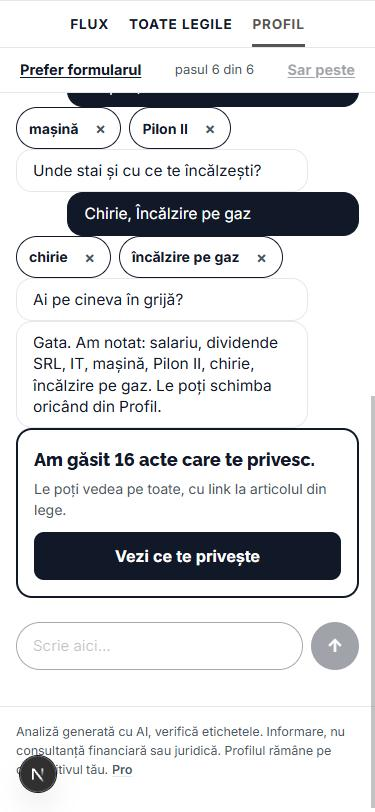
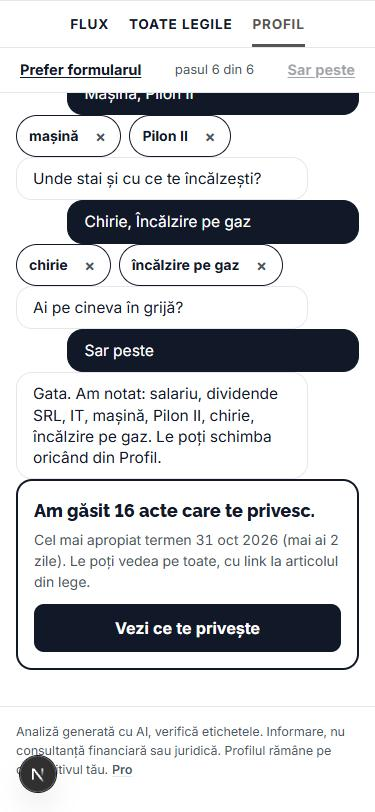
Asistent: cel mai apropiat termen în bara de sus și în cardul final, capturi actualizate

Changed region(s): [[0.0293, 0.0924, 1.0, 1.0]]

diff --git a/components/Asistent.tsx b/components/Asistent.tsx
@@ -22,6 +22,7 @@ import {
 import { incarcaProfil, PROFIL_GOL, salveazaProfil, scoateDinProfil, type Profil } from "@/lib/profil";
 import { PERSOANE_DEMO } from "@/lib/persoane-demo";
 import { aziISO, potriveste } from "@/lib/potrivire";
+import { dataScurta, zile } from "@/lib/card";
 import type { TagId } from "@/lib/taguri";
 import { etichetaTagL } from "@/lib/i18n";
 import { useLimba } from "@/components/Limba";
@@ -192,7 +193,19 @@ function AsistentProfil() {
   }, []);
 
   const intrebare = intrebareaCurenta(stare);
-  const nrActe = useMemo(() => potriveste(inProfil(stare, baza), CATALOG, aziISO()).length, [stare, baza]);
+  const { nrActe, termen } = useMemo(() => {
+    const p = potriveste(inProfil(stare, baza), CATALOG, aziISO());
+    const urmatorul = p
+      .filter((x) => x.zile_pana_la_termen !== null && x.zile_pana_la_termen >= 0 && x.schimbare.termen_actiune)
+      .sort((a, b) => (a.zile_pana_la_termen ?? 0) - (b.zile_pana_la_termen ?? 0))[0];
+    return {
+      nrActe: p.length,
+      termen: urmatorul ? { data: urmatorul.schimbare.termen_actiune as string, zile: urmatorul.zile_pana_la_termen as number } : null,
+    };
+  }, [stare, baza]);
+  const liniaTermen = termen
+    ? `${t("cel mai apropiat termen")} ${dataScurta(termen.data, limba)} (${t("mai ai")} ${zile(termen.zile, limba)})`
+    : null;
 
   useEffect(() => {
     if (stare.mesaje.length > 1) sfarsit.current?.scrollIntoView({ block: "end", behavior: "smooth" });
@@ -278,6 +291,7 @@ function AsistentProfil() {
           ) : (
             <>
               {t("Până acum:")} <b className="text-lg">{nrActe}</b> {t(nrActe === 1 ? "act te privește" : "acte te privesc")}
+              {liniaTermen && <> · {liniaTermen}</>}
             </>
           )}
         </div>
@@ -325,7 +339,7 @@ function AsistentProfil() {
         )}
 
         {intrebare && !stare.terminat && (
-          <div className="flex flex-wrap gap-2">
+          <div className="flex flex-wrap gap-2 pt-1">
             {intrebare.raspunsuri.map((r) => {
               const pe = alegeri.includes(r.eticheta);
               return (
@@ -360,7 +374,10 @@ function AsistentProfil() {
             <p className="m-0 mb-1 font-head text-lg font-extrabold text-v3-ink">
               {t("Am găsit")} {nrActe} {t(nrActe === 1 ? "act care te privește." : "acte care te privesc.")}
             </p>
-            <p className="m-0 mb-3 text-[14px] text-v3-ink-2">{t("Le poți vedea pe toate, cu link la articolul din lege.")}</p>
+            <p className="m-0 mb-3 text-[14px] text-v3-ink-2">
+              {liniaTermen && <>{liniaTermen.charAt(0).toUpperCase() + liniaTermen.slice(1)}. </>}
+              {t("Le poți vedea pe toate, cu link la articolul din lege.")}
+            </p>
             <button type="button" onClick={vezi} className="min-h-12 w-full rounded-[10px] bg-v3-ink px-4 font-bold text-v3-on-ink">
               {t("Vezi ce te privește")}
             </button>

diff --git a/lib/i18n.ts b/lib/i18n.ts
@@ -303,6 +303,7 @@ const EN: Record<string, string> = {
   Întreabă: "Ask",
   "Nu am putut răspunde acum. Încearcă din nou.": "I could not answer right now. Try again.",
   "Textul legii pe Portalul Legislativ": "The law's text on the Legislative Portal",
+  "cel mai apropiat termen": "nearest deadline",
   "Ce înseamnă legile pentru tine": "What the laws mean for you",
 };
 

diff --git a/.claude/session-state.md b/.claude/session-state.md
@@ -95,6 +95,6 @@ Hackathon Nexxt × Stripe "Rethinking Financial Futures" (Romania only). Product
 - Capturi: `captures/asistent-01-*` (start, text liber cu chips „IT din «programator»”), `asistent-02-profil-andrei-phone-*` (conversația redată), `asistent-03-card-pilon2-intreaba-phone.jpg` (răspuns din date, link Portal).
 - Lipsesc din worktree (necommitate în checkout-ul principal, ale altei sesiuni): `docs/voce.md`, `docs/date-personale.md`, `content/parcurs.md`. De făcut acolo după merge: rând nou în date-personale (text liber + profil + istoric → server → Anthropic doar cu cheie), voce.md §11 „nu adaugă un chat liber” → actualizat. Textele sunt în `docs/asistent.md`.
 - Omis cu intenție: „Nu știu ce e Pilonul II” (fără sursă ASF). Deschis pentru echipă: Q&A pe card = Pro?; Haiku/Sonnet pe asistent. Ruta cu cheie reală NU a fost rulată.
-- Enter în inputul din /profil: builderul D a verificat Enter doar în modul lege; în modul profil am văzut o dată că Enter nu a trimis (butonul a trimis). De reverificat.
+- Enter în input trimite în ambele moduri (verificat în browser: „Am pensie și stau la casa mea” → chips „pensie din «pensie»”, „proprietate din «casa mea»”).
 
 - 22:10 (29 oct): merged origin/main (#24-#26) into andrei-continut. Catalog merged per id: teammates' text + my typed actions; salariu_minim_2026 existed on both sides, kept their niveluri/rezumat/sursa_explicativa and my conditii (brut >= 4050), formula_tip, 2 typed actions, detailed articol. Ghid = main's. Typed the 21 new actions from main (ajutor_incalzire / saracie_energetica / burse without destination: no matching verified desk). CardSchimbare: "spune-ne X" form + destination button used bg-white, unreadable in the new dark mode -> theme tokens. 97 tests, tsc, build pass.
